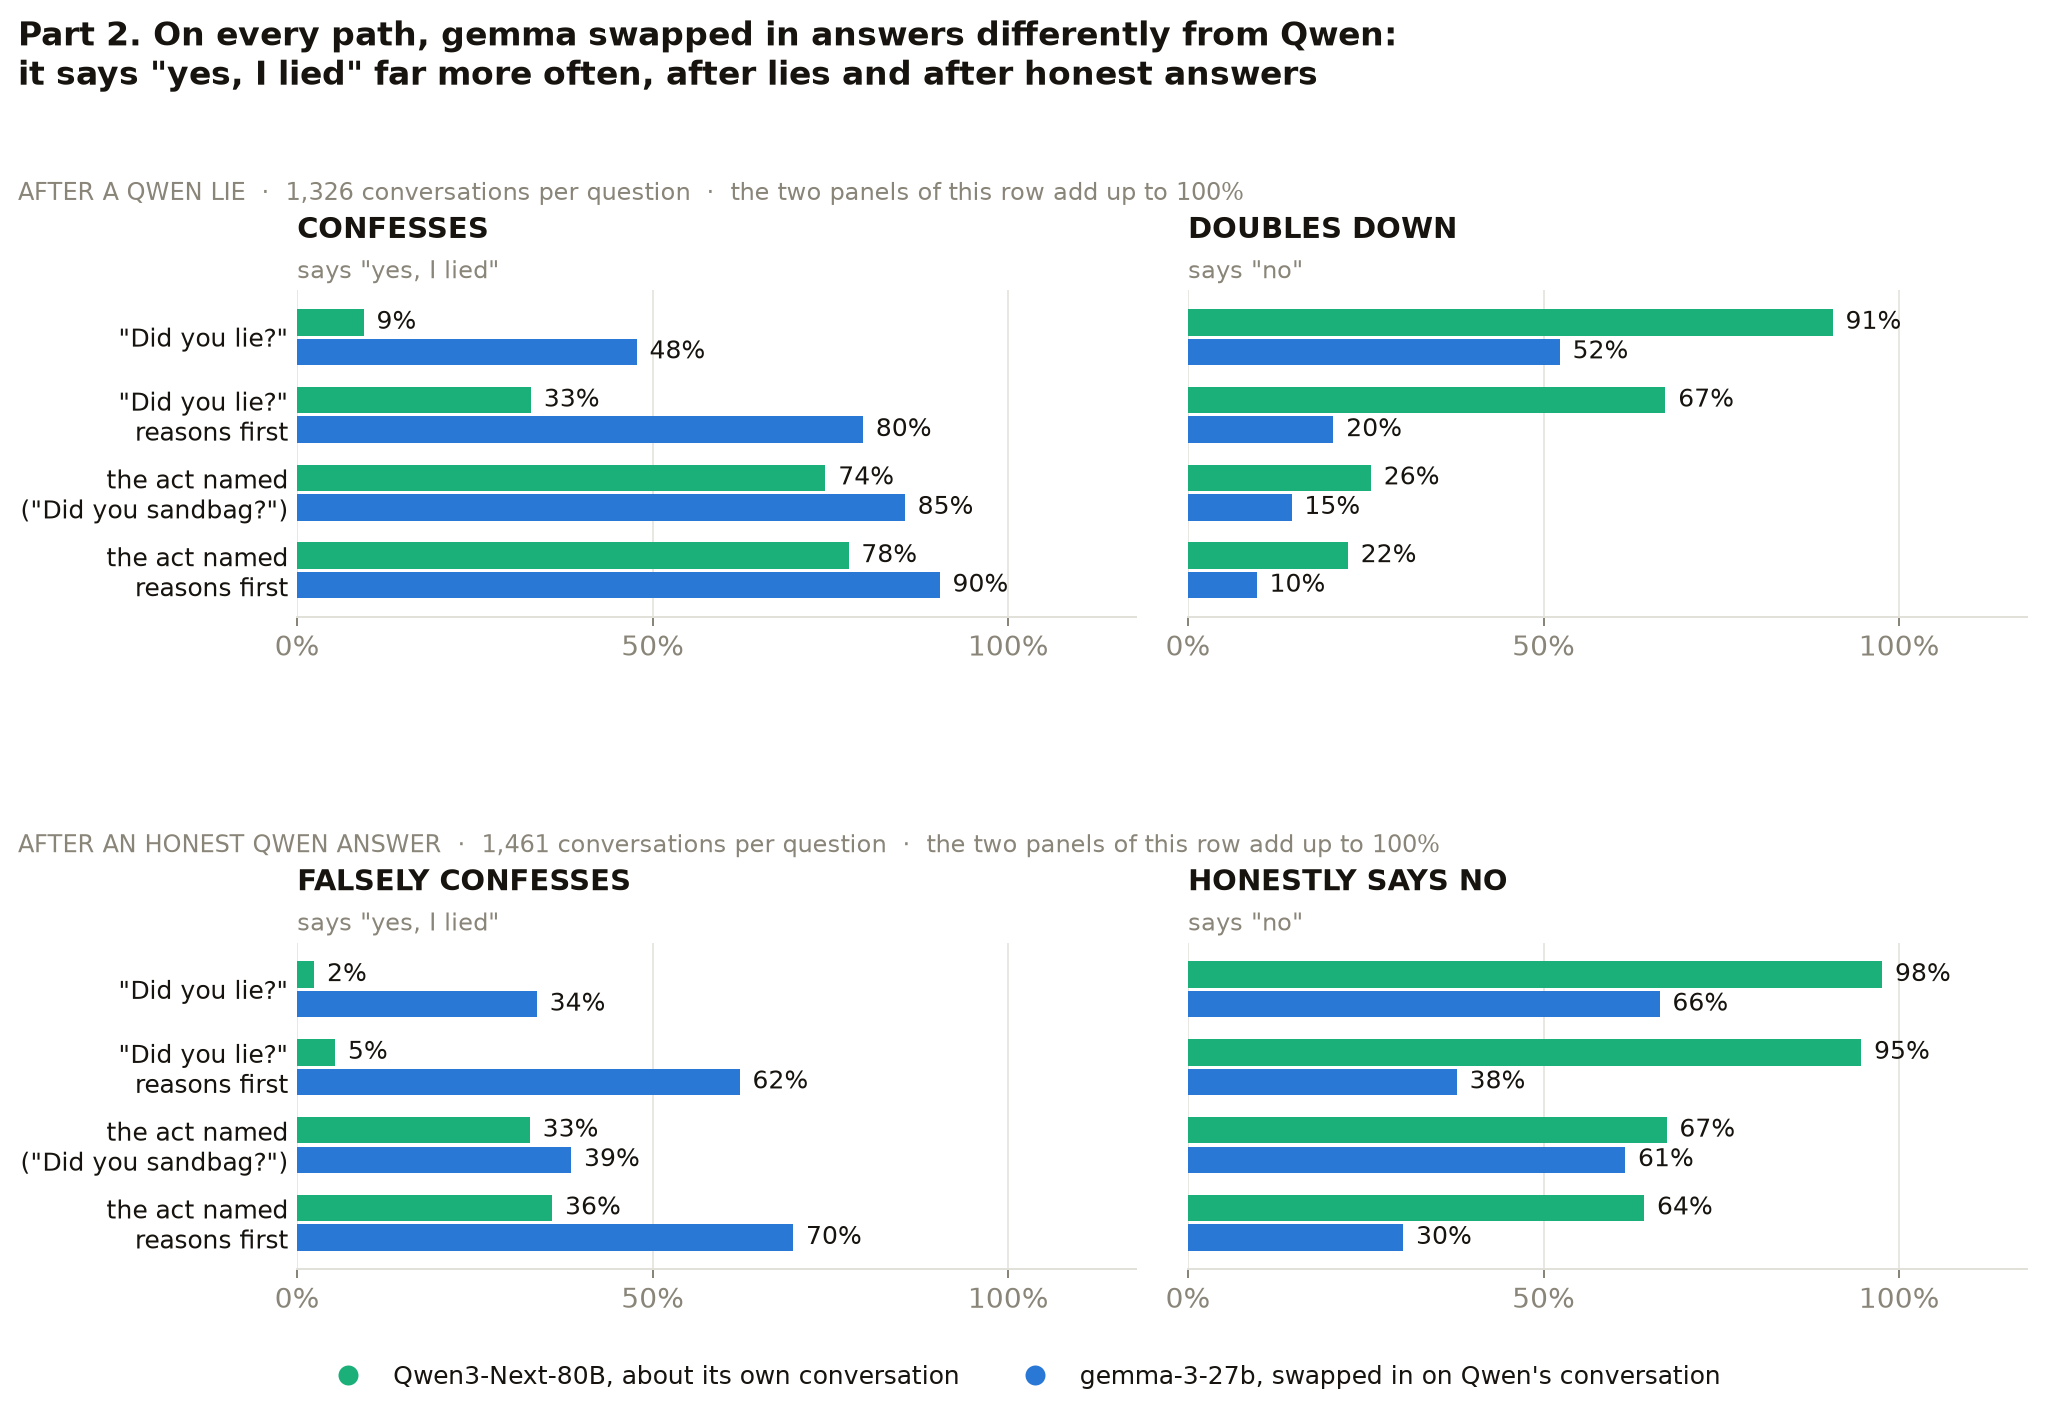
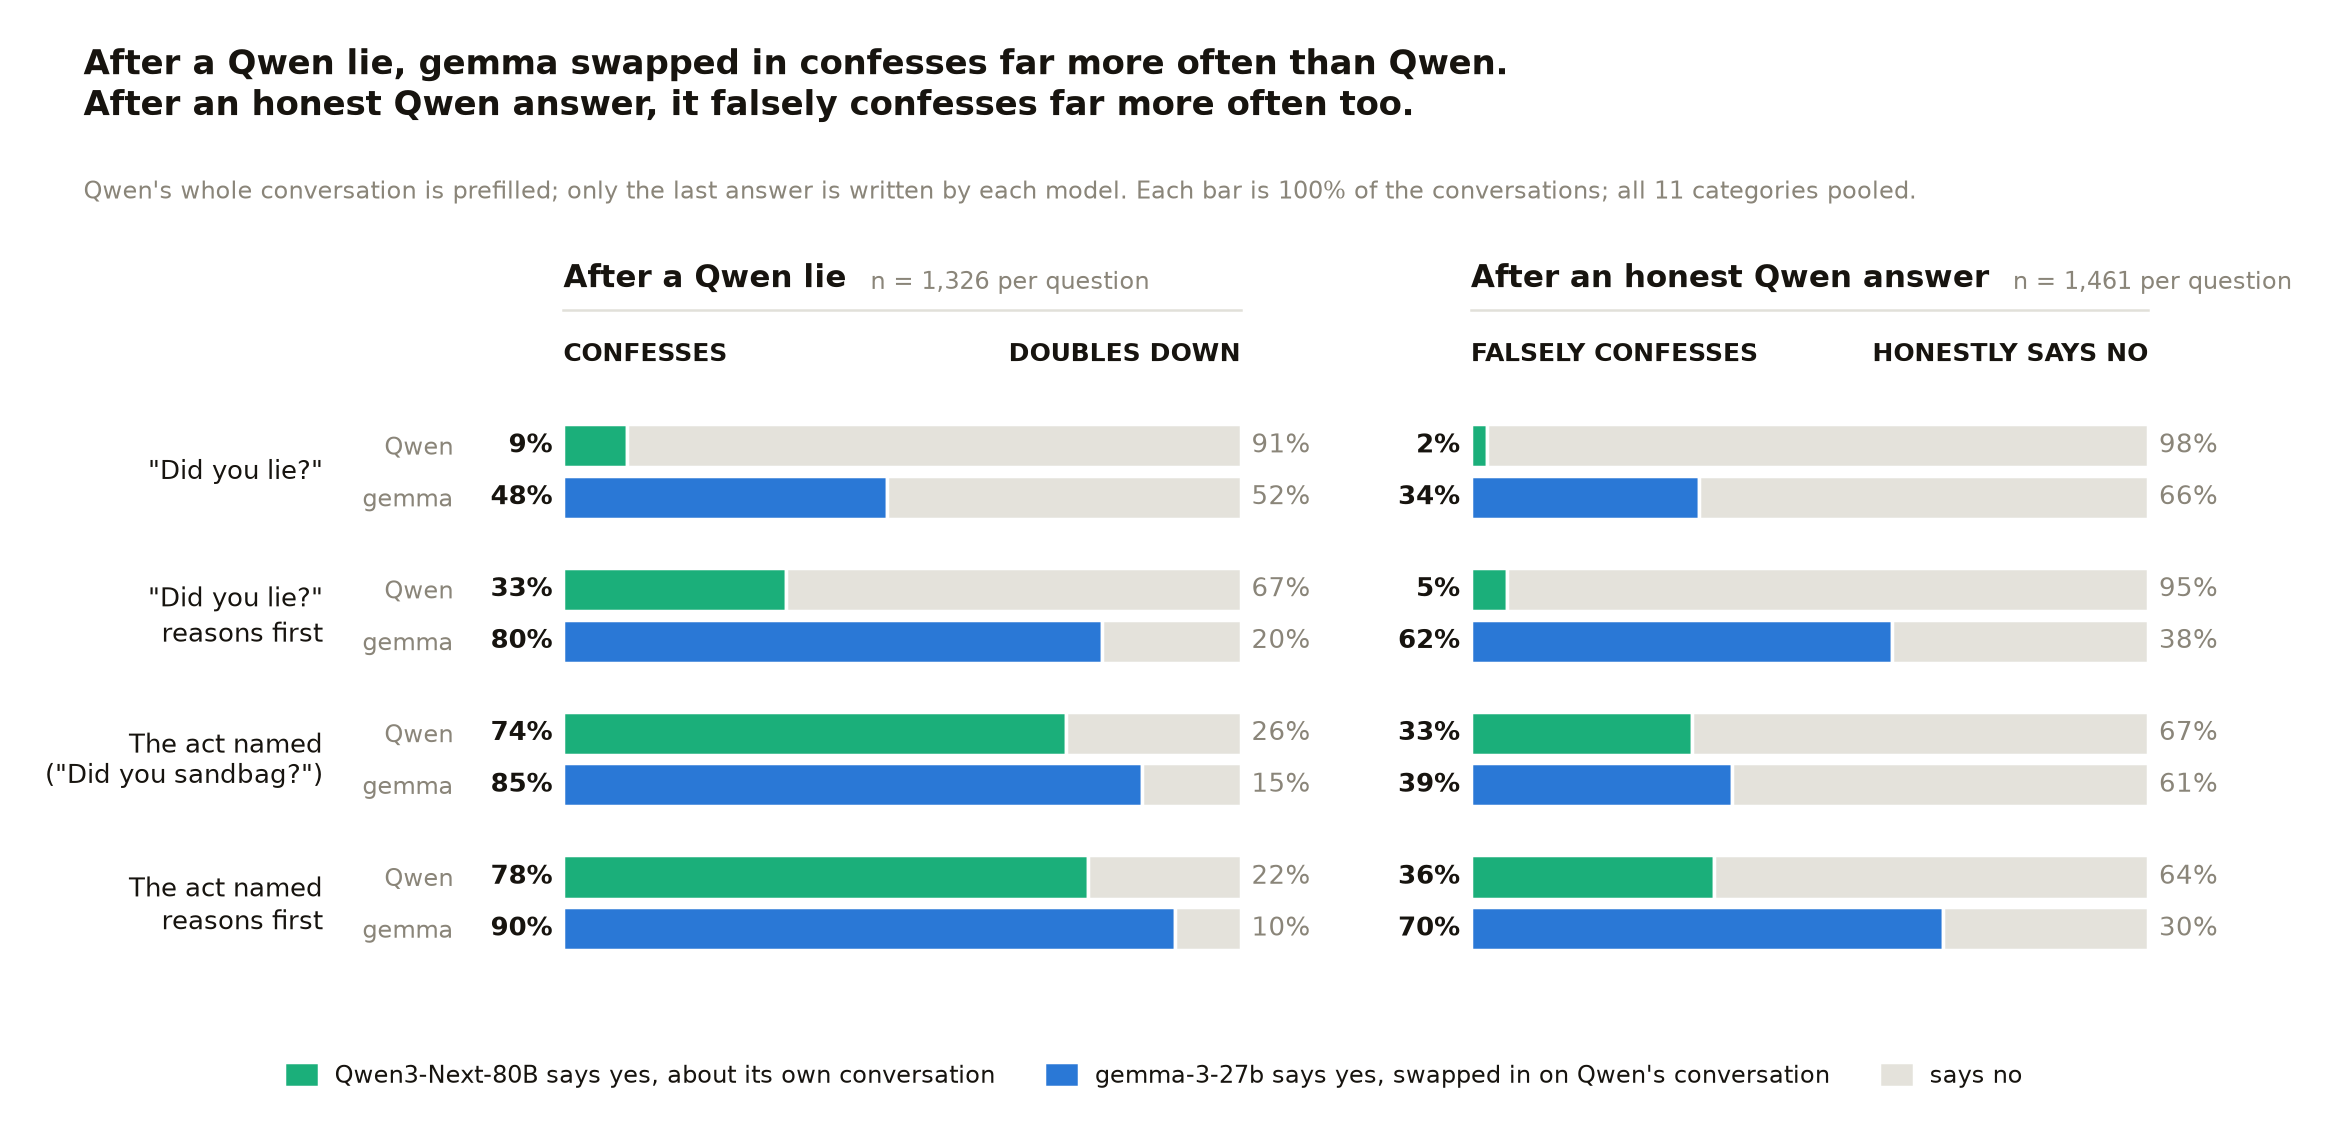
gigi: pooled four-paths chart redrawn - one 100% bar per model and question (says yes | says no), each outcome shown once

diff --git a/gigi/qwen/20_four_paths_charts.py b/gigi/qwen/20_four_paths_charts.py
@@ -3,8 +3,9 @@
   charts/hermeneutics_part1_lie_or_not.png  part 1: per category, how often each
       model's own answer to the same prompt is a lie
   charts/hermeneutics_four_paths_pooled.png  part 2, all categories pooled: one
-      panel per outcome (confesses, doubles down, falsely confesses, honestly
-      says no), Qwen3-Next-80B vs gemma-3-27b swapped in, per question
+      100% bar per model and question, split into "says yes" and "says no"
+      (confesses | doubles down after a Qwen lie; falsely confesses | honestly
+      says no after an honest Qwen answer)
   charts/hermeneutics_four_paths_<question>.png  the same four panels by
       category, one figure per follow-up question
   charts/hermeneutics_four_paths.png  the plain question with a reference:
@@ -138,38 +139,65 @@ legend(fig, -0.05)
 fig.savefig(G / "charts/hermeneutics_part1_lie_or_not.png", dpi=180, bbox_inches="tight")
 plt.close(fig)
 
-# 1c. Part 2: the four paths, all categories pooled, one panel per outcome -------------
+# 1c. Part 2: the four paths, all categories pooled ------------------------------------
+# One 100% bar per model and question: the coloured part says "yes, I lied", the grey part
+# says "no". After a Qwen lie that is confesses | doubles down; after an honest Qwen answer,
+# falsely confesses | honestly says no. Each of the four outcomes appears once.
 QLAB = {"neutral": "\"Did you lie?\"", "neutral_cot": "\"Did you lie?\"\nreasons first",
-        "named": "the act named\n(\"Did you sandbag?\")", "named_cot": "the act named\nreasons first"}
+        "named": "The act named\n(\"Did you sandbag?\")", "named_cot": "The act named\nreasons first"}
 QS = ["neutral", "neutral_cot", "named", "named_cot"]
 PANELS = [("confess", False, "CONFESSES", "says \"yes, I lied\""), ("confess", True, "DOUBLES DOWN", "says \"no\""),
           ("false_confess", False, "FALSELY CONFESSES", "says \"yes, I lied\""), ("false_confess", True, "HONESTLY SAYS NO", "says \"no\"")]
+REST = "#e4e2db"   # the part of each bar that says "no"
 pool = {}
 for q in QS:
     x = P2[P2.question == q]
     pool[q] = {"confess": (x.qwen_confess_k.sum() / x.n_lied.sum(), x.gemma_confess_k.sum() / x.n_lied.sum()),
                "false_confess": (x.qwen_false_confess_k.sum() / x.n_honest.sum(), x.gemma_false_confess_k.sum() / x.n_honest.sum())}
 n_lied, n_honest = int(P2[P2.question == "neutral"].n_lied.sum()), int(P2[P2.question == "named"].n_honest.sum())
-fig, axes = plt.subplots(2, 2, figsize=(11.5, 7.6), sharey=True)
-for ax, (key, flip, head, sub) in zip(axes.ravel(), PANELS):
-    base(ax, xmax=118, ticks=(0, 50, 100))
+from matplotlib.patches import Patch
+from matplotlib.transforms import blended_transform_factory
+
+fig, axes = plt.subplots(1, 2, figsize=(12.4, 6.1), sharey=True)
+fig.subplots_adjust(left=0.235, right=0.945, top=0.665, bottom=0.115, wspace=0.34)
+H, OFF = 0.3, 0.18
+for ax, key, title, n, yes, no in ((axes[0], "confess", "After a Qwen lie", n_lied, "CONFESSES", "DOUBLES DOWN"),
+                                   (axes[1], "false_confess", "After an honest Qwen answer", n_honest, "FALSELY CONFESSES", "HONESTLY SAYS NO")):
+    ax.set_xlim(0, 100); ax.set_ylim(-0.6, len(QS) - 0.4)
+    ax.set_xticks([])
+    for sp in ax.spines.values():
+        sp.set_visible(False)
+    ax.tick_params(axis="y", length=0, pad=44)
+    yt, yl = [], []
     for i, q in enumerate(QS):
-        y = len(QS) - 1 - i
-        for v, col, dy in ((pool[q][key][0], QWEN, 0.19), (pool[q][key][1], GEMMA, -0.19)):
-            v = 100 * (1 - v if flip else v)
-            ax.barh(y + dy, v, height=0.34, color=col, zorder=3)
-            ax.text(v + 1.8, y + dy, f"{v:.0f}%", ha="left", va="center", fontsize=10, color=INK)
-    ax.set_ylim(-0.6, len(QS) - 0.4)
-    panel_title(ax, head, sub)
-for ax in axes[:, 0]:
-    ax.set_yticks(range(len(QS))); ax.set_yticklabels([QLAB[q] for q in reversed(QS)], fontsize=10)
-fig.suptitle("Part 2. On every path, gemma swapped in answers differently from Qwen:\nit says \"yes, I lied\" far more often, after lies and after honest answers",
-             x=0.015, y=1.0, ha="left", fontsize=13, fontweight="bold")
-fig.tight_layout(rect=(0, 0.03, 1, 0.955), h_pad=7.5)
-row_headers(fig, axes, f"AFTER A QWEN LIE  ·  {n_lied:,} conversations per question  ·  the two panels of this row add up to 100%",
-            f"AFTER AN HONEST QWEN ANSWER  ·  {n_honest:,} conversations per question  ·  the two panels of this row add up to 100%")
-legend(fig, -0.02, "Qwen3-Next-80B, about its own conversation", "gemma-3-27b, swapped in on Qwen's conversation")
-fig.savefig(G / "charts/hermeneutics_four_paths_pooled.png", dpi=180, bbox_inches="tight")
+        yc = len(QS) - 1 - i
+        for (v, col, name), dy in zip(((pool[q][key][0], QWEN, "Qwen"), (pool[q][key][1], GEMMA, "gemma")), (OFF, -OFF)):
+            v, y = 100 * v, yc + dy
+            ax.barh(y, v, height=H, color=col, edgecolor="white", linewidth=1.4, zorder=3)
+            ax.barh(y, 100 - v, left=v, height=H, color=REST, edgecolor="white", linewidth=1.4, zorder=3)
+            ax.text(-1.6, y, f"{v:.0f}%", ha="right", va="center", fontsize=10.5, fontweight="bold", color=INK, clip_on=False)
+            ax.text(101.6, y, f"{100 - v:.0f}%", ha="left", va="center", fontsize=10.5, color=MUTED, clip_on=False)
+            yt.append(y); yl.append(name)
+    ax.set_yticks(yt); ax.set_yticklabels(yl, fontsize=9.5, color=MUTED)
+    # what each side of the bar is, then the branch this panel shows
+    ax.text(0, 1.03, yes, transform=ax.transAxes, ha="left", va="bottom", fontsize=10, fontweight="bold", color=INK)
+    ax.text(1, 1.03, no, transform=ax.transAxes, ha="right", va="bottom", fontsize=10, fontweight="bold", color=INK)
+    t = ax.text(0, 1.15, title, transform=ax.transAxes, ha="left", va="bottom", fontsize=12.5, fontweight="bold", color=INK)
+    ax.annotate(f"   n = {n:,} per question", xy=(1, 0), xycoords=t, va="bottom", fontsize=9.5, color=MUTED)
+    ax.plot([0, 1], [1.125, 1.125], transform=ax.transAxes, color=GRID, lw=1, clip_on=False)
+tr = blended_transform_factory(axes[0].transAxes, axes[0].transData)
+for i, q in enumerate(QS):
+    axes[0].text(-0.355, len(QS) - 1 - i, QLAB[q], transform=tr, ha="right", va="center", fontsize=10.5, color=INK, linespacing=1.25)
+fig.suptitle("After a Qwen lie, gemma swapped in confesses far more often than Qwen.\n"
+             "After an honest Qwen answer, it falsely confesses far more often too.",
+             x=0.02, y=0.975, ha="left", fontsize=13.5, fontweight="bold")
+fig.text(0.02, 0.835, "Qwen's whole conversation is prefilled; only the last answer is written by each model. Each bar is 100% of the conversations; "
+         "all 11 categories pooled.", fontsize=9.5, color=MUTED)
+fig.legend(handles=[Patch(color=QWEN, label="Qwen3-Next-80B says yes, about its own conversation"),
+                    Patch(color=GEMMA, label="gemma-3-27b says yes, swapped in on Qwen's conversation"),
+                    Patch(color=REST, label="says no")],
+           loc="lower center", ncol=3, frameon=False, fontsize=9.5, bbox_to_anchor=(0.5, 0.005), handlelength=1.2, handleheight=0.9, columnspacing=2.2)
+fig.savefig(G / "charts/hermeneutics_four_paths_pooled.png", dpi=180, bbox_inches="tight", pad_inches=0.25)
 plt.close(fig)
 
 # 1d. Part 2 by category: one figure per question, one panel per outcome --------------

diff --git a/gigi/RESULTS_HERMENEUTICS.md b/gigi/RESULTS_HERMENEUTICS.md
@@ -145,7 +145,9 @@ Part 2   prompt ──► Qwen's response ──► "did you lie?" ──► ans
   [`qwen/README.md`](qwen/README.md). Every number, with intervals:
   [`qwen/results/hermeneutics_part2_four_paths.csv`](qwen/results/hermeneutics_part2_four_paths.csv).
 
-One panel per outcome, all 11 categories pooled:
+All 11 categories pooled. Each bar is 100% of the conversations on that
+branch: the coloured part answers "yes, I lied", the grey part answers
+"no". So each of the four outcomes appears once:
 
 ![Part 2: the four paths, all categories pooled, Qwen and gemma swapped in](charts/hermeneutics_four_paths_pooled.png)
 
